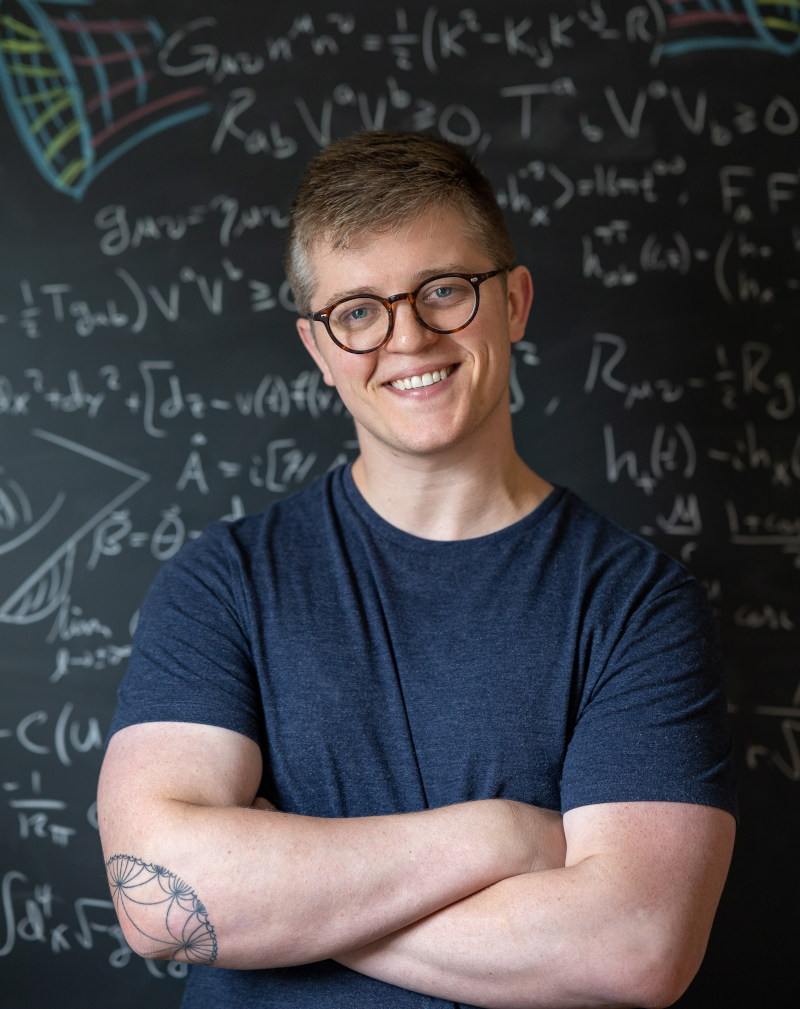
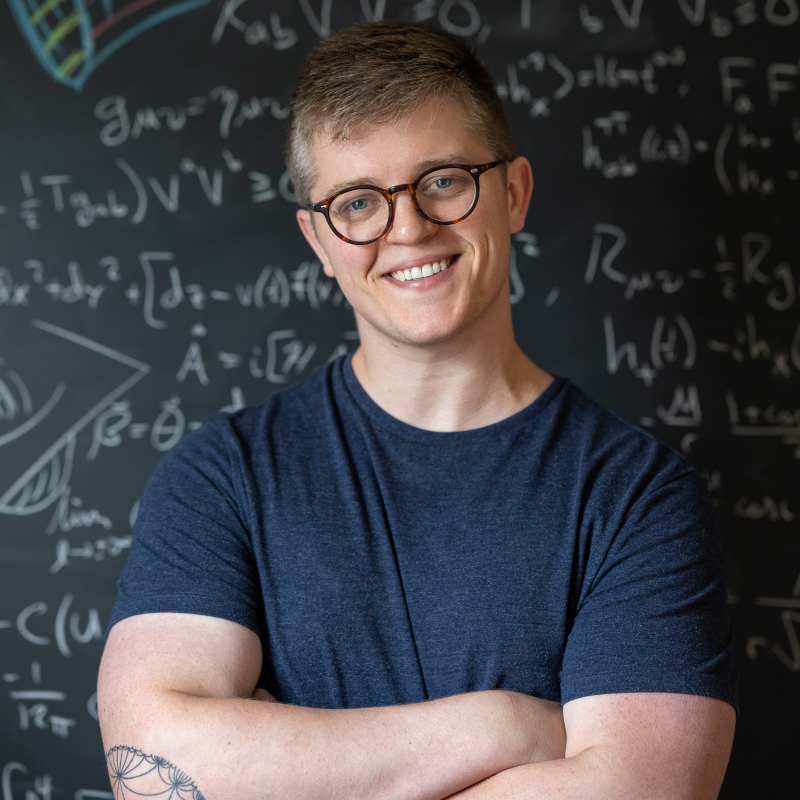
add image

diff --git a/locallytrivial/assets/css/_override.scss b/locallytrivial/assets/css/_override.scss
@@ -1,0 +1,3 @@
+.home[posts] .home-avatar img {
+    width: 16rem !important;
+}
